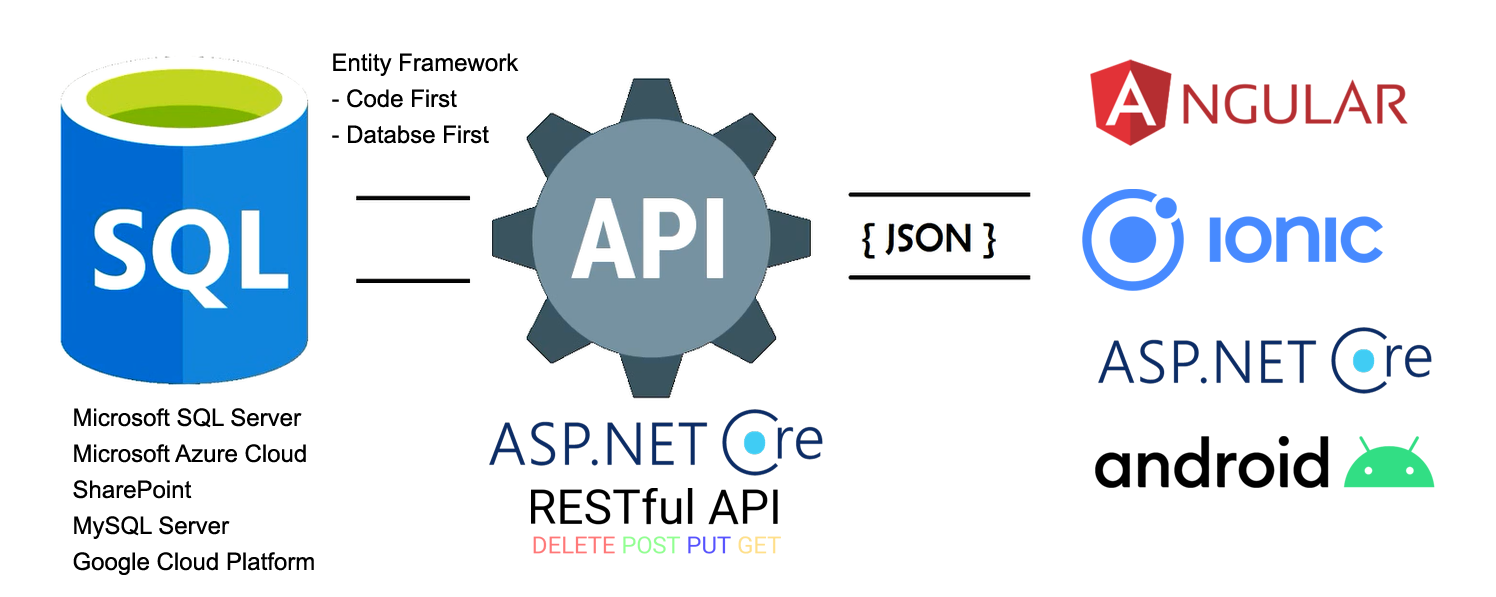
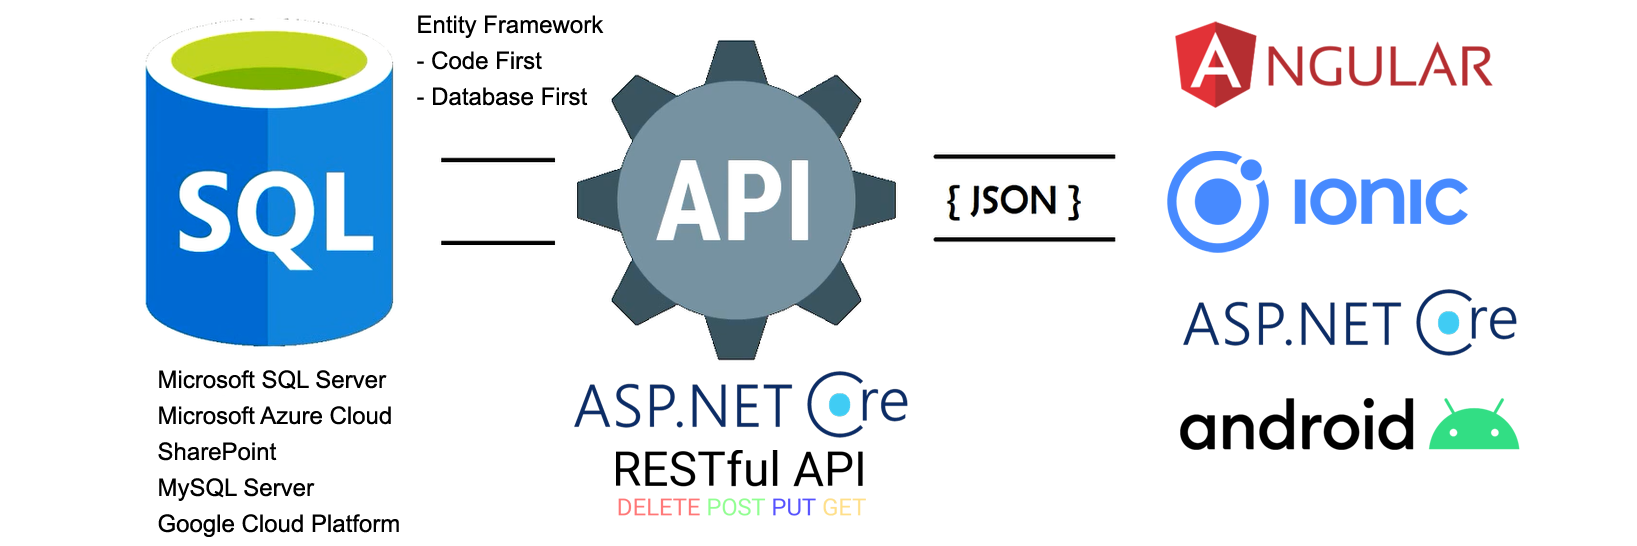
Fix text error

diff --git a/index.html b/index.html
@@ -56,8 +56,7 @@
 											Microsoft SQL Server<br />
 											Microsoft Azure<br />
 											MySQL Server<br />
-											Google Cloud Platform<br />
-											Oracle PL/SQL
+											Google Cloud Platform
 										</p>
 									</li>
 									<li>
@@ -67,8 +66,7 @@
 											ASP.NET Core RESTful API<br />
 											C# ASP.NET Core MVC<br />
 											Entity Framework Code/Data First<br />
-											Java Spring MVC<br />
-											Java Servlet<br />
+											Java Spring MVC
 										</p>
 									</li>
 									<li>
@@ -79,8 +77,7 @@
 											IONIC Framework<br />
 											.NET View/Razor page<br />
 											JavaScript/TypeScript<br />
-											Android<br />
-											Java JSP<br />
+											Android
 										</p>
 									</li>
 								</ul>
@@ -97,7 +94,7 @@
 
 									<p>Conestoga College's official mobile app to support new student orientation and transition.<br />
 										Using IONIC Framework with Angular, SQLite, InAppBrowser, Firebase FCM, OneSignal<br />
-										ASP.NET Core WebAPI, Repository Pattern, Sharepoint DB, IIS Server. 
+										ASP.NET Core WebAPI, Repository Pattern, SharePoint DB, IIS Server. 
 										</p>
 
 									<div class="box alt">
